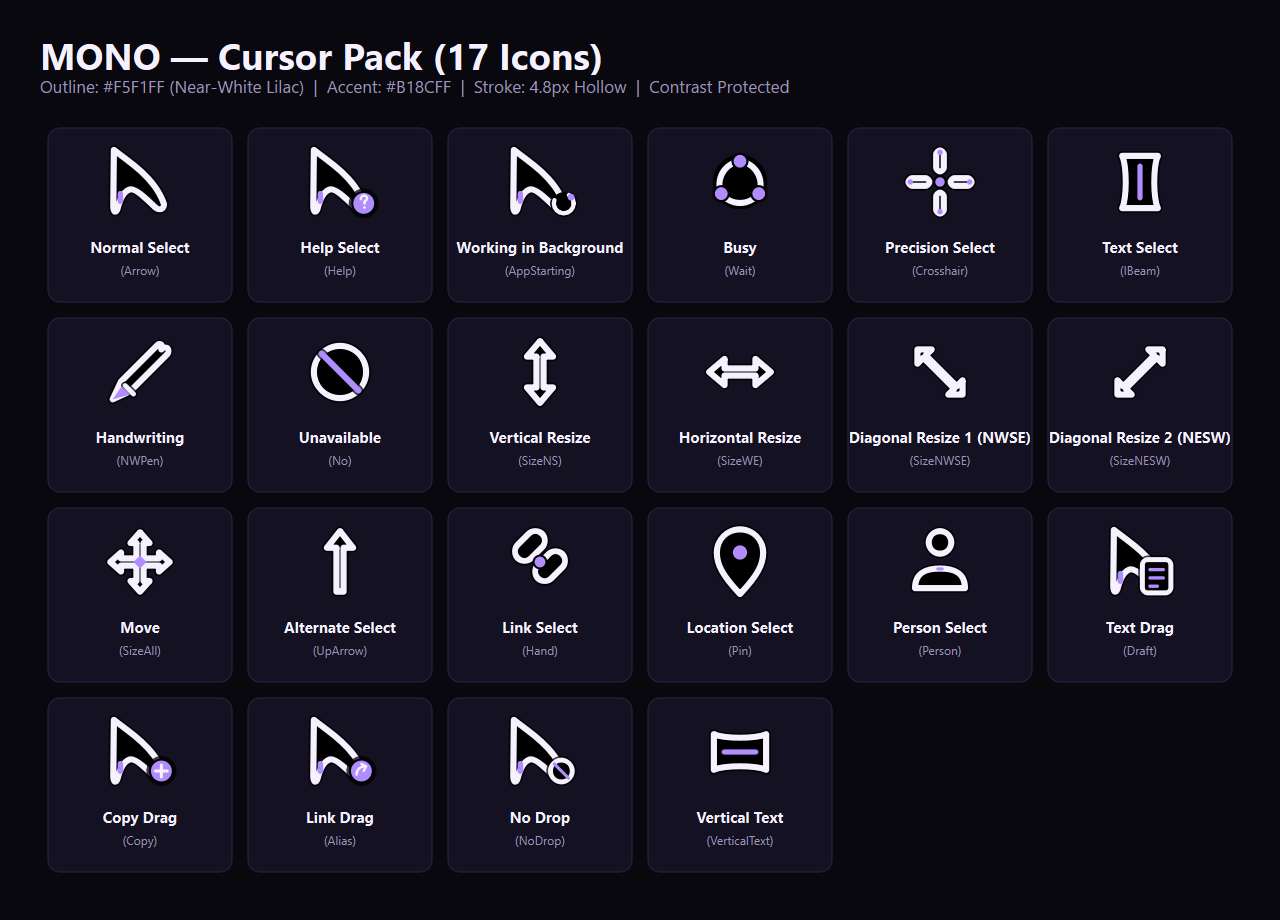
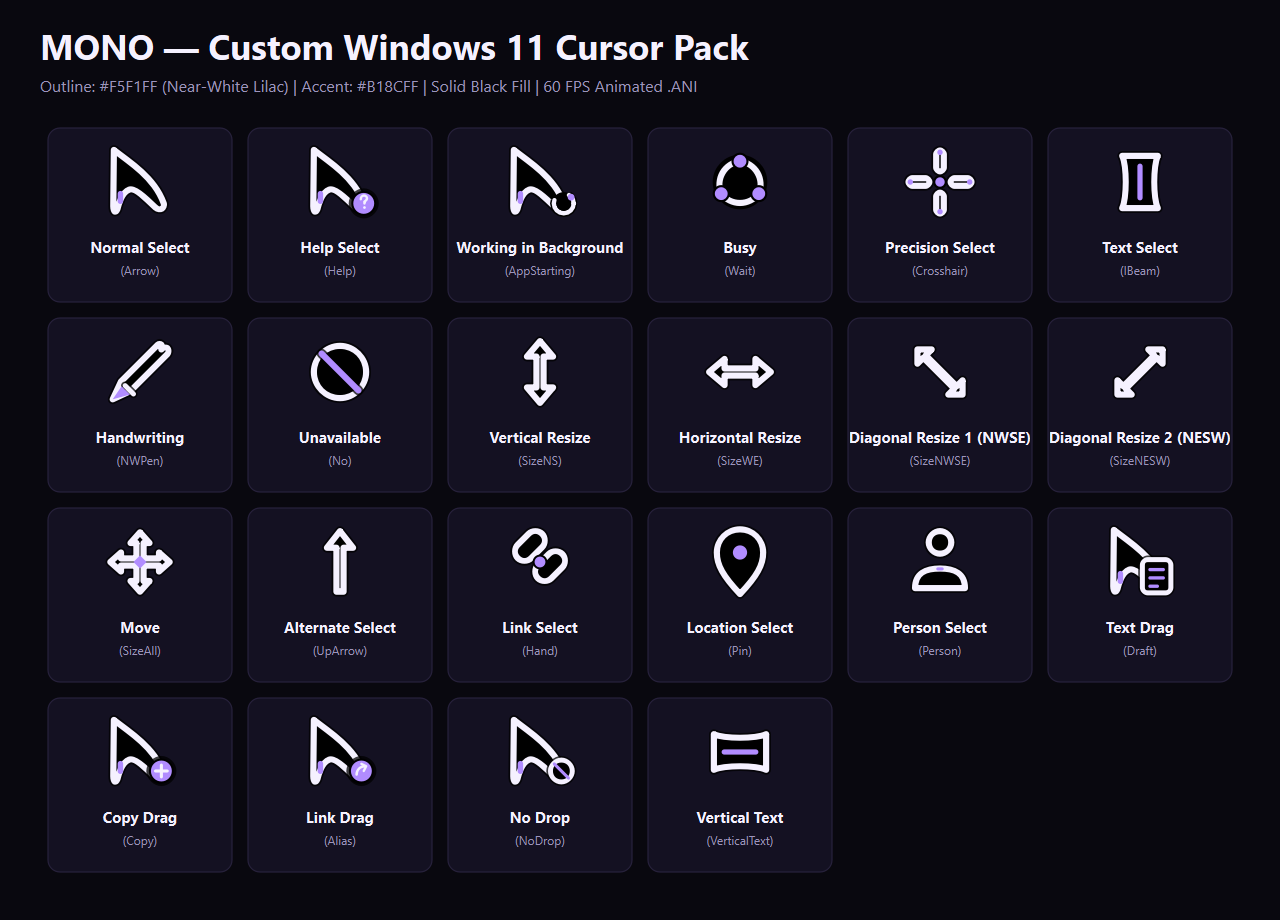
Update README.md with dark and light showcase previews and full pack documentation

Changed region(s): [[0.0312, 0.0304, 0.625, 0.1217]]

diff --git a/src/make_pack.py b/src/make_pack.py
@@ -102,16 +102,14 @@ def generate_gallery_previews():
         p.setRenderHint(QPainter.TextAntialiasing, True)
         
         # Header Title
-        title_font = QFont("Segoe UI", 28, QFont.Bold)
-        p.setFont(title_font)
+        p.setFont(QFont("Segoe UI", 26, QFont.Bold))
         p.setPen(QColor(text_main))
-        p.drawText(QRect(PADDING, 30, TOTAL_W - PADDING * 2, 45), Qt.AlignLeft, "MONO — Cursor Pack (17 Icons)")
+        p.drawText(PADDING, 60, "MONO — Custom Windows 11 Cursor Pack")
         
-        # Subtitle
-        sub_font = QFont("Segoe UI", 13)
-        p.setFont(sub_font)
+        # Header Subtitle
+        p.setFont(QFont("Segoe UI", 12))
         p.setPen(QColor(text_sub))
-        p.drawText(QRect(PADDING, 75, TOTAL_W - PADDING * 2, 30), Qt.AlignLeft, "Outline: #F5F1FF (Near-White Lilac)  |  Accent: #B18CFF  |  Stroke: 4.8px Hollow  |  Contrast Protected")
+        p.drawText(PADDING, 92, "Outline: #F5F1FF (Near-White Lilac) | Accent: #B18CFF | Solid Black Fill | 60 FPS Animated .ANI")
         
         card_font = QFont("Segoe UI", 11, QFont.Bold)
         key_font = QFont("Segoe UI", 9)

diff --git a/README.md b/README.md
@@ -1,74 +1,104 @@
 # MONO — Windows 11 Custom Lilac-White Cursor Pack
 
 > **A minimal, futuristic hollow cursor pack designed for Windows 11.**  
-> Crafted with a warm near-white lilac outline (`#F5F1FF`), vibrant interaction accent dots (`#B18CFF`), and a protective dark outer contour (`rgba(0,0,0,0.65)`) ensuring readability on both dark themes and white backgrounds.
+> Crafted with a warm near-white lilac outline (`#F5F1FF`), solid black interior core (`#000000`), vibrant interaction accent dots (`#B18CFF`), and a protective dark outer contrast halo (`rgba(0,0,0,0.75)`) ensuring readability on both dark themes and pure white backgrounds.
 
 ---
 
-## 🎨 Palette & Design Tokens
+## 📸 Visual Showcase
+
+### Dark Theme Preview
+![MONO Dark Theme Showcase](preview/mono_showcase_dark.png)
+
+### Light Theme Preview
+![MONO Light Theme Showcase](preview/mono_showcase_light.png)
+
+---
+
+## 🎨 Design System & Palette
 
 | Token | Hex / Value | Description |
 |---|---|---|
 | **Outline Stroke** | `#F5F1FF` | 90% white, 10% lilac (HSL 256°, 45%, 96%). Warm, crisp, and non-clinical. |
-| **Accent Fill** | `#B18CFF` | Saturated interaction accent for interactive focal points. |
-| **Contrast Halo** | `rgba(0,0,0,0.65)` | Outer protective stroke ensuring the cursor never disappears on white apps. |
-| **Stroke Width** | `4.8px` (~7.5%) | Bold, tactile silhouette with rounded caps and joins (`round`). |
+| **Accent Fill** | `#B18CFF` | Saturated interaction accent for interactive focal points, spinners, and badges. |
+| **Interior Core** | `#000000` | Solid opaque black interior body preventing pass-through and ensuring visibility across all UI colors. |
+| **Contrast Halo** | `rgba(0,0,0,0.75)` | Dark outer protective stroke preventing the cursor from vanishing on white websites and documents. |
+| **Stroke Width** | `5.2px` | Bold, tactile silhouette with rounded caps and joins (`round`). |
 
 ---
 
 ## 📦 What's Included
 
-### 1. Compiled Windows Cursors (`dist/`)
-Contains all **17 `.cur` files**, each embedded with 7 resolutions (**16, 24, 32, 48, 64, 96, 128 px**) and custom pixel-accurate hotspots:
-1. `mono_normal_select.cur` (`Arrow`)
-2. `mono_help_select.cur` (`Help`)
-3. `mono_working_in_background.cur` (`AppStarting`)
-4. `mono_busy.cur` (`Wait`)
-5. `mono_precision_select.cur` (`Crosshair`)
-6. `mono_text_select.cur` (`IBeam`)
-7. `mono_handwriting.cur` (`NWPen`)
-8. `mono_unavailable.cur` (`No`)
-9. `mono_vertical_resize.cur` (`SizeNS`)
-10. `mono_horizontal_resize.cur` (`SizeWE`)
-11. `mono_diagonal_resize_1.cur` (`SizeNWSE`)
-12. `mono_diagonal_resize_2.cur` (`SizeNESW`)
-13. `mono_move.cur` (`SizeAll`)
-14. `mono_alternate_select.cur` (`UpArrow`)
-15. `mono_link_select.cur` (`Hand`)
-16. `mono_location_select.cur` (`Pin`)
-17. `mono_person_select.cur` (`Person`)
+### 1. Windows Cursors (`dist/`)
+Contains all **compiled multi-resolution Windows cursors** embedded with 7 resolutions (**16×16, 24×24, 32×32, 48×48, 64×64, 96×96, 128×128 px**) and pixel-exact hotspots:
 
-### 2. Master SVGs & PNGs
-- `svg/`: 17 master vector source files.
-- `png/`: Transparent PNGs exported at 16x16, 24x24, 32x32, 48x48, 64x64, 96x96, and 128x128.
-
-### 3. Installers (`install/`)
-- **`install_mono.inf`**: Right-click → **Install** to register the scheme directly into Windows Mouse Properties (`%SystemRoot%\Cursors\Mono`).
-- **`apply_mono_live.py`**: Python script that sets the registry and broadcasts `SystemParametersInfo(SPI_SETCURSORS)` for **instant live desktop activation**.
-- **`apply_mono_scheme.reg`**: Direct registry script mapping the cursors to your current user profile.
-- **`revert_to_default.reg`**: Restores the default Windows cursor scheme.
+| Cursor Name | Windows Role | File | Features |
+|---|---|---|---|
+| **Normal Select** | `Arrow` | `mono_normal_select.cur` | Flagship curved pointer with purple heel pill |
+| **Help Select** | `Help` | `mono_help_select.cur` | Pointer + question mark circle badge |
+| **Working in Background** | `AppStarting` | `mono_working_in_background.ani` | Pointer + 60 FPS rotating spinner ring |
+| **Busy / Wait** | `Wait` | `mono_busy.ani` | 60 FPS smooth rotating tri-arc spinner with 3 purple dots |
+| **Precision Select** | `Crosshair` | `mono_precision_select.cur` | 4-segment crosshair with center dot & 4 outer purple tips |
+| **Text Select** | `IBeam` | `mono_text_select.cur` | Sculpted I-beam with center purple accent bar |
+| **Handwriting** | `NWPen` | `mono_handwriting.cur` | Diagonal stylus with solid black body & purple lead tip |
+| **Unavailable** | `No` | `mono_unavailable.cur` | Lilac circle with diagonal purple slash |
+| **Vertical Resize** | `SizeNS` | `mono_vertical_resize.cur` | Double-headed vertical arrow |
+| **Horizontal Resize** | `SizeWE` | `mono_horizontal_resize.cur` | Double-headed horizontal arrow |
+| **Diagonal Resize 1** | `SizeNWSE` | `mono_diagonal_resize_1.cur` | Northwest-to-Southeast diagonal resize arrow |
+| **Diagonal Resize 2** | `SizeNESW` | `mono_diagonal_resize_2.cur` | Northeast-to-Southwest diagonal resize arrow |
+| **Move** | `SizeAll` | `mono_move.cur` | 4-way move arrow with center purple pivot diamond |
+| **Alternate Select** | `UpArrow` | `mono_alternate_select.cur` | Upward vertical arrow |
+| **Link Select** | `Hand` | `mono_link_select.cur` | Interlocking rounded chain links with center accent |
+| **Location Select** | `Pin` | `mono_location_select.cur` | Map pin teardrop with purple center core |
+| **Person Select** | `Person` | `mono_person_select.cur` | User avatar silhouette with collar accent |
 
 ---
 
-## 🚀 How to Install & Use
+## 🚀 How to Install & Apply
 
-### Method 1: Instant Live Activation (Recommended)
-Run the Python live activation script:
-```powershell
-py install/apply_mono_live.py
+### ⚡ Option 1: One-Click Instant Activation (Recommended)
+Double-click:
+```text
+apply_mono.bat
 ```
+*(Or in PowerShell: `powershell -ExecutionPolicy Bypass -File apply_mono.ps1`)*  
+**Instantly applies the cursors to your desktop live via Windows Win32 API — no restart or logoff required!**
 
-### Method 2: Standard Windows INF Installation
-1. Open the `install/` folder in File Explorer.
-2. Right-click [`install_mono.inf`](file:///d:/MonoCurseher/install/install_mono.inf) and click **Install**.
-3. Open Windows **Settings → Bluetooth & devices → Mouse → Additional mouse settings**.
+---
+
+### 🪟 Option 2: Standard Windows INF Installation
+1. Open the [`install/`](install/) folder.
+2. Right-click **`install_mono.inf`** and select **Install**.
+3. Press `Win + R`, type `main.cpl`, and hit **Enter**.
 4. In the **Pointers** tab, select **Mono** from the Scheme dropdown and click **Apply**.
 
 ---
 
+### 🔄 How to Revert to Default
+Double-click:
+```text
+restore_default.bat
+```
+*(Or in PowerShell: `powershell -ExecutionPolicy Bypass -File restore_default.ps1`)*
+
+---
+
+## 🧪 Interactive Testing Tools
+
+- **Desktop Cursor Tester**: Run `test_busy.bat` to launch the native live cursor tester with simulated heavy CPU workloads.
+- **Browser Cursor Studio**: Open [`test_busy.html`](test_busy.html) in any browser to inspect every cursor state with live interactive triggers.
+
+---
+
 ## 🛠 Rebuilding from Source
-To modify design tokens or recompile the entire pack:
+
+To modify colors, geometry, or rebuild all multi-resolution binary containers:
 ```powershell
 py src/make_pack.py
 ```
-This will automatically generate the SVGs, rasterize multi-resolution PNGs, pack the binary `.cur` files with hotspots, and generate installer files and preview boards.
+This automatically builds master SVGs, renders transparent PNGs across all 7 resolutions, packs the binary `.cur` and 60 FPS animated `.ani` containers, updates registry scripts, and re-renders the high-resolution showcase graphics.
+
+---
+
+## 📄 License & Credits
+Designed and maintained by **Tushar** ([@Tushar27-git](https://github.com/Tushar27-git)). Free to use and customize!
